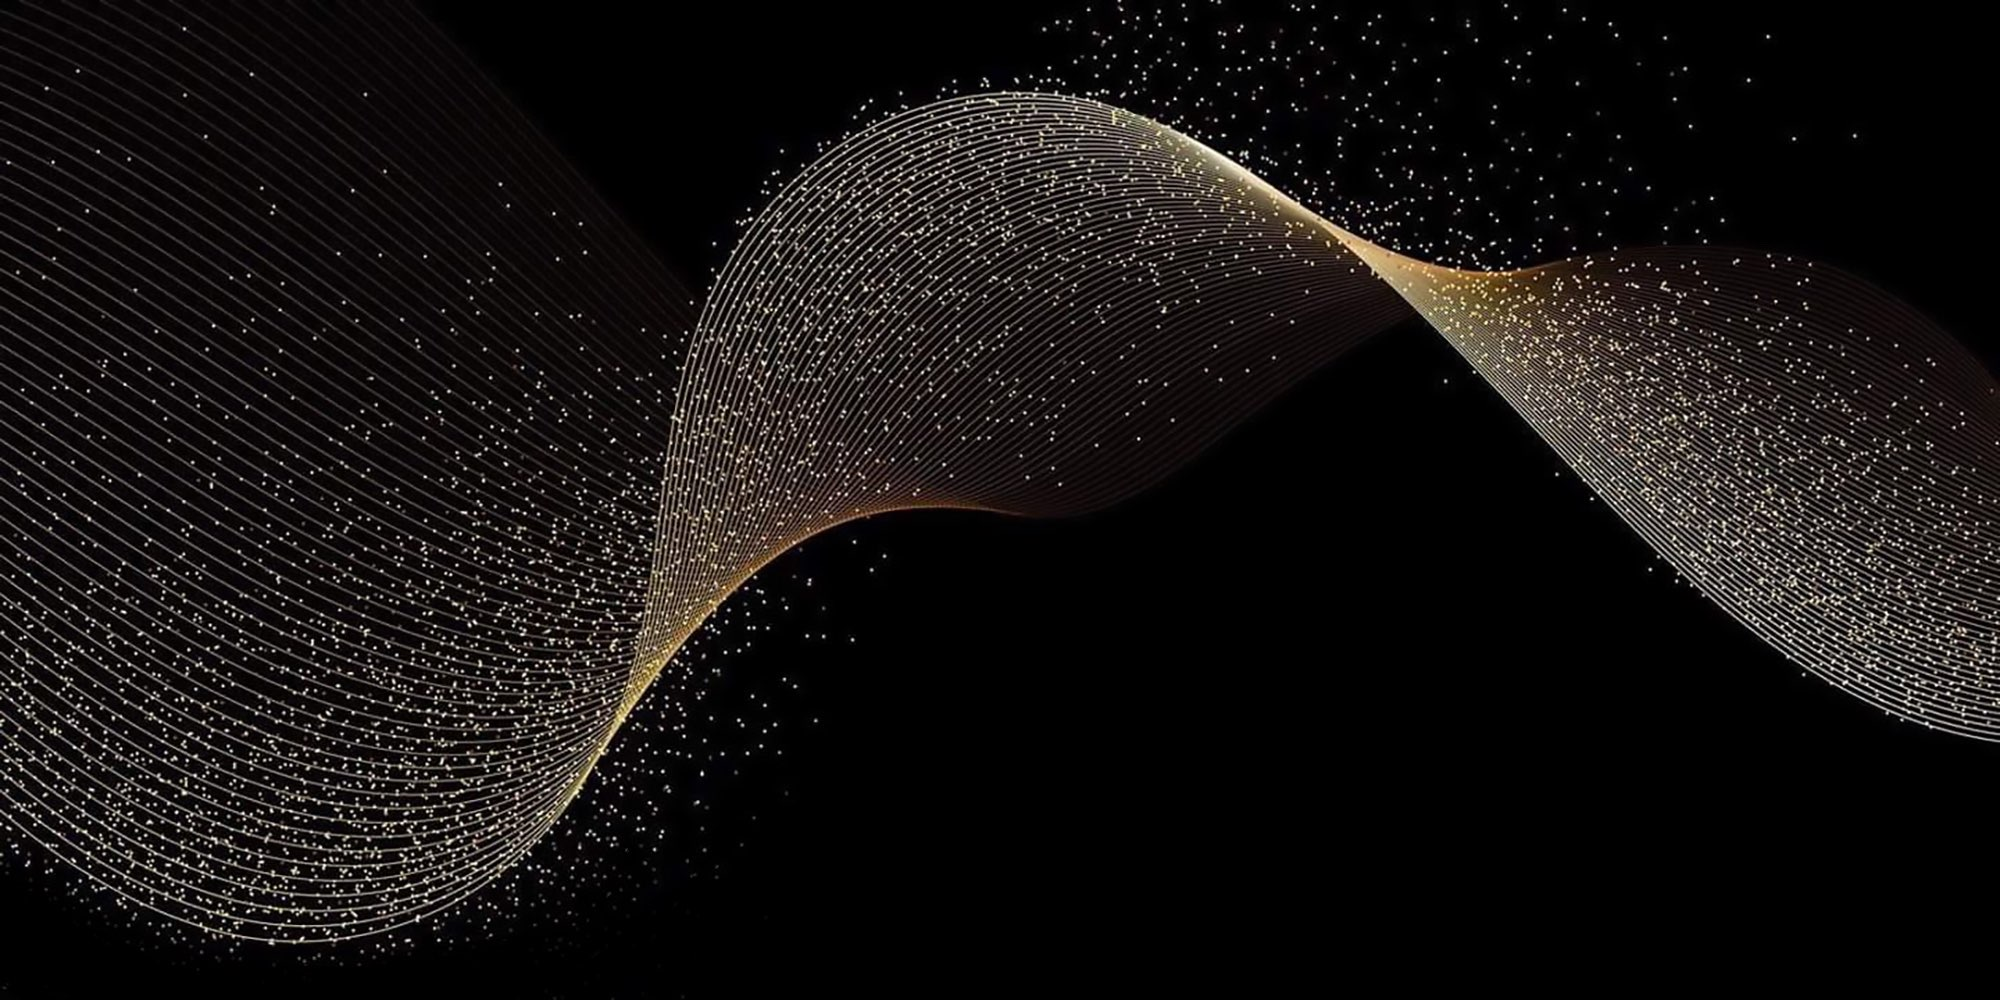
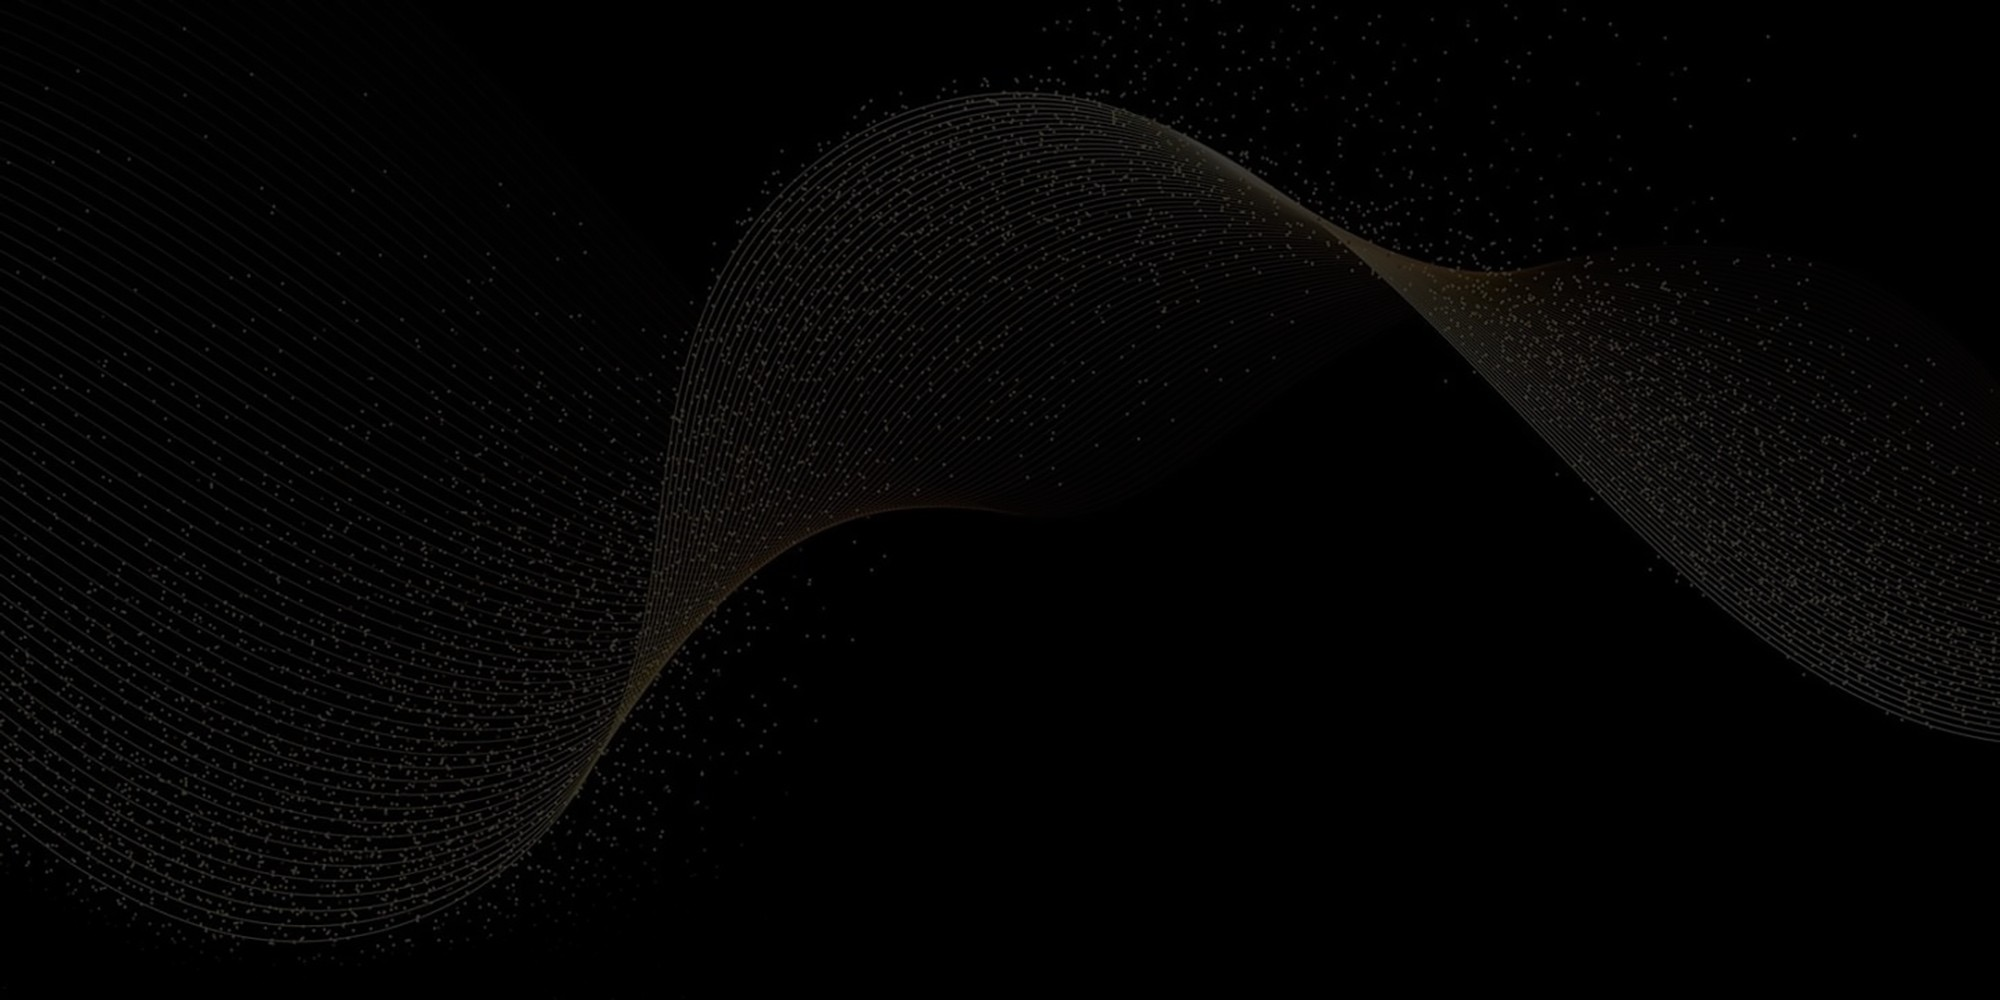
background et tout

Changed region(s): [[0.0, 0.062, 1.0, 0.961]]

diff --git a/style/globalstyles.css b/style/globalstyles.css
@@ -24,8 +24,50 @@
 
 /* CORPS DE PAGE */
 
+
 .body {
-    background-image: linear-gradient(to top, #640C19 30%, #000000 60%);
+   
+--cinema-width: 100vw;
+--cinema-height: calc(var(--cinema-width) * 0.5625);
+
+  background-image:
+    /* 1. Dégradé rouge depuis le bas */
+    linear-gradient(to top, #640C19 40%, transparent 80%),
+
+    /* 2. Dégradé d'opacité pour cinema (fondu vers le haut) */
+    linear-gradient(to top, rgba(0, 0, 0, 0.75)60%, rgb(0, 0, 0)),
+
+    /* 3. Image cinéma */
+    url("/images/cinema.webp"),
+
+    /* 4. Image background en haut */
+    url("/images/background.jpg");
+
+  background-size:
+    100% 40%,  /* dégradé rouge */
+    var(--cinema-width) var(--cinema-height),   /* dégradé cinema */
+    var(--cinema-width) var(--cinema-height),   /* image cinema */
+    contain;      /* background haut */
+
+  background-repeat:
+    no-repeat,
+    no-repeat,
+    no-repeat,
+    no-repeat;
+
+  background-position:
+    bottom center, /* dégradé rouge */
+    center 70%,  /* dégradé cinéma — à AJUSTER */
+    center 70%,  /* image cinéma — même position */
+    top center;    /* image top */
+
+  background-blend-mode:
+    normal,
+    normal,  /* mélange dégradé cinema + image cinema */
+    normal,
+    normal;
+
+    background-color: black;
     font-family: 'poppins', sans-serif;
 }
 

diff --git a/style/styles.css b/style/styles.css
@@ -1,21 +1,11 @@
 
 
 .main {
-  background-image: url("/images/background.jpg");
-  background-size: cover;
-  background-repeat: no-repeat;
   text-align: center;
   height: 100vh;
   position: relative;
 }
 
-.main::before {
-  content: "";
-  position: absolute;
-  inset: 0;
-  background-color: rgba(0, 0, 0, 0.6);
-  z-index: 1;
-}
 
 
 .titre {
